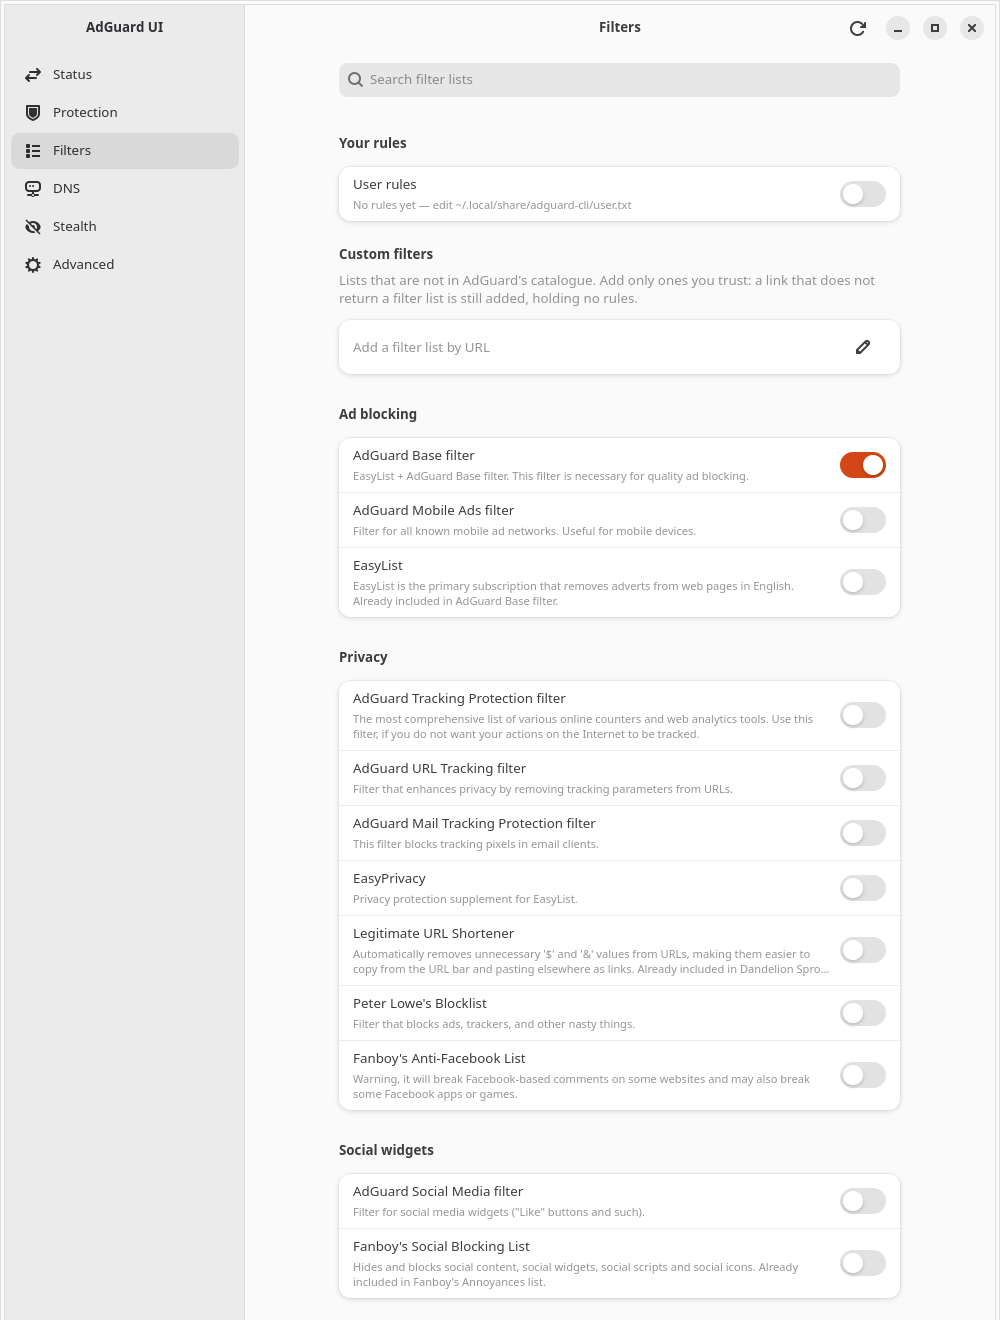
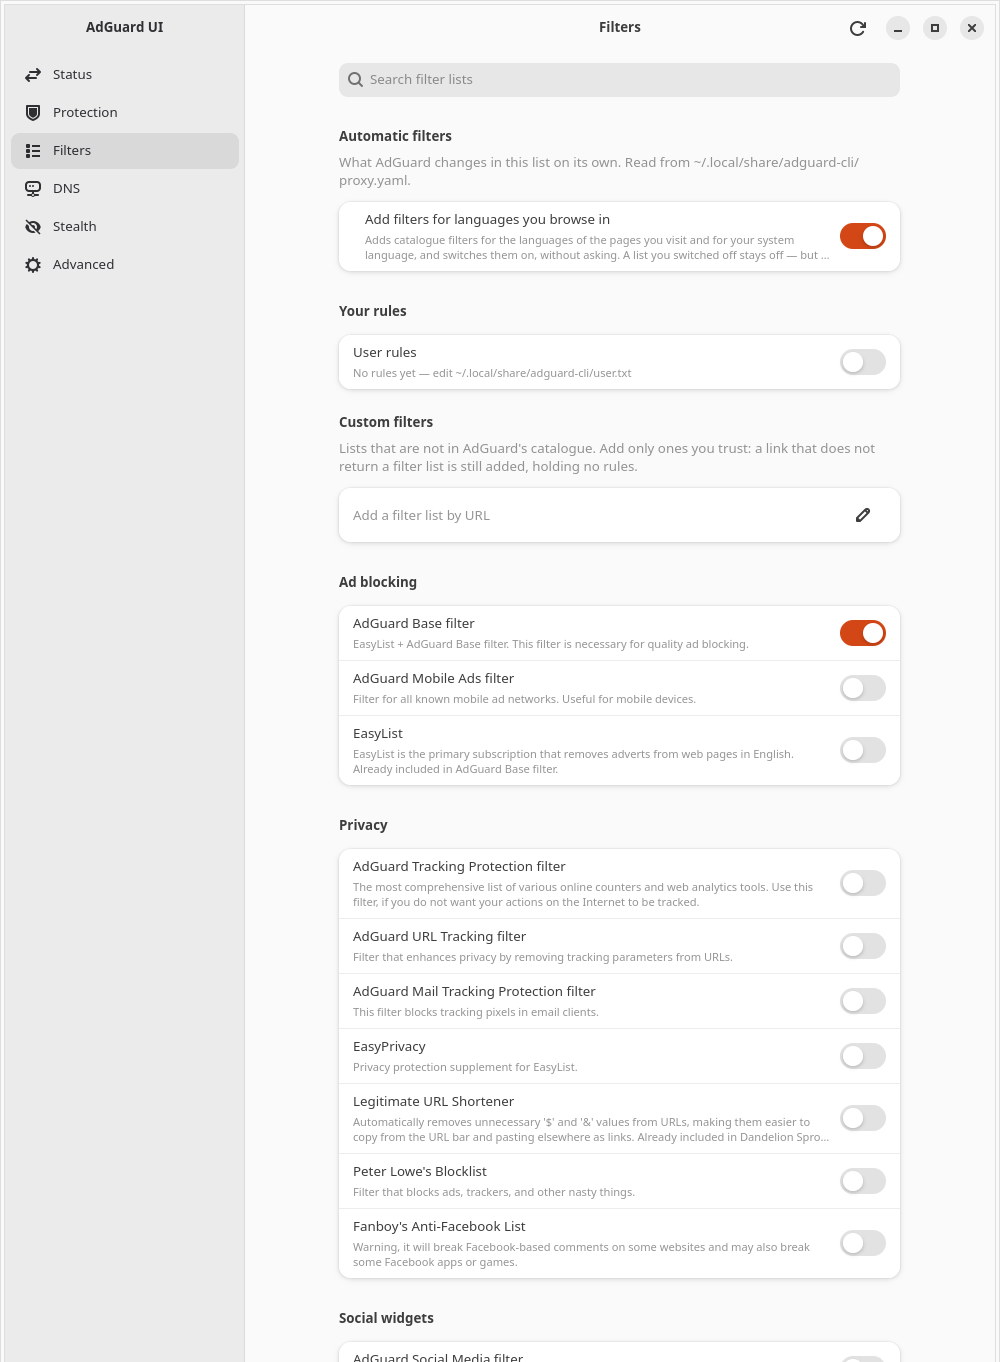
docs: bring README and the screenshots up to 1.1.0; bump to 1.1.0
Steps 1 and 3 of building.md section 5. The tag and the push are not here.

Five of the seven README frames pictured pages that no longer look like
that: Protection gained the Privacy group, Filters the automatic-language
switch, DNS the ECH row, Advanced the HTTPS-filtering and filtered-port
groups. Re-taken by the section 3 recipe. Status and Stealth are left
alone deliberately -- those two carry hand-repainted placeholders over
this machine's licence and IP, and re-taking one that did not need it is
how a real address reaches a public repository.

advanced-backup.png is new. The release's two headline groups sit at the
foot of a 3,000-pixel page, so no top-of-page frame can show them; it is
a crop of a full-height capture, because Atspi.Component.scroll_to fails
here with the same bare atspi_error handoff section 4 records for
grab_focus. Four traps from the re-take are now in building.md section 3,
including the one that matters most: an empty $ADGUARD_BROWSER_HOME
silently removes the browser group the unmet frame exists to show.

README carried a sixth copy of the test count -- "218 tests pass", which
is why the sweep for stale numbers missed it, it having matched neither
"218 pass" nor "228 tests". It is not updated but removed: the count is
the figure that has now been wrong twice, and handoff section 0 is the
one place it belongs. building.md section 5 also claimed metainfo was
the only other file with a version number, which was wrong from the day
[…]

diff --git a/README.md b/README.md
@@ -24,7 +24,7 @@ AdGuard CLI is a third-party install under `$HOME`, so no package can declare a 
 Every release carries a `.deb` and a tarball for `~/.local`, built in a clean `ubuntu:26.04` container and listed with their checksums in `SHA256SUMS`:
 
 ```bash
-sudo apt-get install ./adguard-ui_1.0.0_amd64.deb
+sudo apt-get install ./adguard-ui_1.1.0_amd64.deb
 ```
 
 [**Releases**](https://github.com/dominik-najberg/AdGuard-UI-Linux/releases) · [`CHANGELOG.md`](CHANGELOG.md). `apt-get install ./file.deb` rather than `dpkg -i`, because apt resolves the dependencies the package declares; the path has to start with `./` or apt looks the name up in the archive instead. The tarball is the unprivileged route: extract it and run its `install.sh`, which writes under `~/.local` and never asks for a password.
@@ -65,15 +65,15 @@ While the tray is present, closing the window only hides it and *Quit* in the tr
 
 **Status** — runtime state, start/stop/restart, the proxy endpoints, and the licence. Polled every 2 seconds while the window is up, every 10 when only the tray is showing.
 
-**Protection** — the six protection modules, each one switch over one key in `proxy.yaml`.
+**Protection** — the six protection modules, each one switch over one key in `proxy.yaml`, and the anonymous-statistics consent. That last row is the one setting here the application will not describe: nothing in AdGuard's configuration comments, its help output or its binary says what the key sends, so the row says *that* rather than inventing an answer.
 
 ![The Protection page](docs/screenshots/protection.png)
 
-**Filters** — AdGuard's own catalogue, read from its SQLite databases with localised names, plus custom lists installed by URL. The group description says what AdGuard's own content check does and does not catch: a link that answers with something other than a filter list is still installed, holding no rules.
+**Filters** — AdGuard's own catalogue, read from its SQLite databases with localised names, plus custom lists installed by URL. The group description says what AdGuard's own content check does and does not catch: a link that answers with something other than a filter list is still installed, holding no rules. Above the catalogue is the switch for adding filters in your system languages automatically — on this page rather than in Advanced, because a list you never switched on is something you notice here.
 
 ![The Filters page](docs/screenshots/filters.png)
 
-**DNS** — the DNS filter catalogue, your own DNS rules, the three server settings, and the local DNS proxy's listen port as disabled / automatic / fixed.
+**DNS** — the DNS filter catalogue, your own DNS rules, the three server settings, the local DNS proxy's listen port as disabled / automatic / fixed, and Encrypted Client Hello blocking, which is last because AdGuard's own comment says the common case is to leave it alone.
 
 ![The DNS page](docs/screenshots/dns.png)
 
@@ -81,11 +81,19 @@ While the tray is present, closing the window only hides it and *Quit* in the tr
 
 ![The Stealth page](docs/screenshots/stealth.png)
 
-**Advanced** — proxy mode, ports, listen address and authentication, outbound proxy, worker threads, log level, and secure DNS filtering. Settings whose effect depends on another setting say so rather than appearing to work.
+**Advanced** — proxy mode, ports, the filtered-port list, listen address and authentication, outbound proxy and outbound interface, worker threads, log level, secure DNS filtering, and the five HTTPS-filtering options behind the switch that gates them. Settings whose effect depends on another setting say so rather than appearing to work.
 
 ![The Advanced page](docs/screenshots/advanced.png)
 
-A **first-run assistant** covers the other end: on a machine with no `proxy.yaml` at all it checks the licence, seeds a configuration with one guarded `configure`, asks four questions, and writes the answers before handing over to the pages above.
+Two groups at the foot of that page do more than set a key:
+
+**Traffic capture** writes a HAR file of everything filtered, and it ships off. Its description is the feature: the capture records response bodies, the files are world-readable, and a measured run produced 114 MB in six minutes — one file per run, with nothing pruning them.
+
+**Backup and restore** exports your settings to a zip and restores one, with a third button beside the log level that bundles the logs for a bug report. Each of the three says the thing you would otherwise have to find out: a round trip **loses your DNS filter choices and DNS user rules**, because only `proxy.yaml` is exported; a restore leaves the **licence and the certificate untouched**; and the logs bundle **includes your configuration and not your browsing record**. A chosen zip is identified before anything happens to it, so handing the restore a logs bundle is refused with an explanation rather than accepted and half-applied.
+
+![Traffic capture and Backup and restore, at the foot of the Advanced page](docs/screenshots/advanced-backup.png)
+
+A **first-run assistant** covers the other end: on a machine with no `proxy.yaml` at all it checks the licence, seeds a configuration with one guarded `configure`, asks four questions, and writes the answers before handing over to the pages above. It also offers **restore from a backup**, in every branch including the two that will not set anything up — restoring is not licence-gated where seeding a configuration is, so it is reachable by exactly the user that screen otherwise turns away.
 
 ## Prerequisites it detects, and will not perform for you
 
@@ -97,7 +105,7 @@ Each is detected, named, and paired with **AdGuard's own command** and a copy bu
 
 The browser check is the one whose answer something unrelated to AdGuard can invalidate: install a browser after the integration command last ran and it is silently left out, with the extension reporting that it cannot find AdGuard at all. All three re-read themselves when the window regains focus.
 
-> Every check above is in its *met* state on the machine these screenshots came from, so the unmet frame was produced with the documented `$ADGUARD_CA_BUNDLE`, `$SYSTEM_CERT_DIR` and `$ADGUARD_BROWSER_HOME` overrides ([`docs/building.md`](docs/building.md) §3), pointing the checks at an empty sandbox rather than at this machine's real trust store. The licence owner, the visible tail of the licence key and the Stealth page's custom IP are placeholders; everything else is as rendered.
+> Every check above is in its *met* state on the machine these screenshots came from, so the unmet frame was produced with the documented `$ADGUARD_CA_BUNDLE`, `$SYSTEM_CERT_DIR` and `$ADGUARD_BROWSER_HOME` overrides ([`docs/building.md`](docs/building.md) §3), pointing the checks at an empty sandbox rather than at this machine's real trust store. The licence owner, the visible tail of the licence key and the Stealth page's custom IP are placeholders; everything else is as rendered. Frames of a page longer than the window show it from the top, so a page here is not always all of it — the *Advanced* frame above stops partway down, which is why the two groups at the foot of that page have a frame of their own.
 
 ---
 
@@ -124,7 +132,9 @@ The browser check is the one whose answer something unrelated to AdGuard can inv
 cargo test --workspace
 ```
 
-218 tests pass and 44 are `#[ignore]`d. The ignored suites drive the real `adguard-cli`: two write only to a throwaway `$XDG_DATA_HOME`, and two mutate this machine's real configuration and restore it afterwards. [`docs/building.md`](docs/building.md) §3 says which is which before you run one.
+That runs everything that touches nothing of yours. The suites it leaves `#[ignore]`d drive the real `adguard-cli`: two write only to a throwaway `$XDG_DATA_HOME`, and two mutate this machine's real configuration and restore it afterwards. [`docs/building.md`](docs/building.md) §3 says which is which before you run one.
+
+No count is quoted here on purpose. It was wrong twice — a figure that changes belongs in exactly one place, and for this project that place is [`docs/handoff.md`](docs/handoff.md) §0.
 
 CI runs the first of those commands on every push and pull request, in an `ubuntu:26.04` container — the runner's own image ships a libadwaita too old to build against. It runs no formatter check and never the ignored suites; [`.github/workflows/ci.yml`](.github/workflows/ci.yml) says why for each.
 

diff --git a/docs/building.md b/docs/building.md
@@ -334,6 +334,15 @@ Resize once after the window maps, re-read the geometry from `xwininfo` afterwar
 
 The unmet certificate, root-helper and browser-integration groups are invisible on this machine, so a screenshot of them needs the overrides above — but check what the *command* row ends up saying before shipping the frame. Pointing `$ADGUARD_ROOT_HELPER` at `/bin/true` renders `sudo /bin/true -s`, which is a real rendering of a fake install and reads as a real instruction.
 
+**An empty `$ADGUARD_BROWSER_HOME` deletes the group you came to photograph.** Measured 2 August 2026 while re-taking the unmet frame for 1.1.0: pointing it at a bare empty directory produces a frame with no browser-integration group at all, because no browser is *installed* under it and this application does not report browsers that are not there (`architecture.md` §6). The frame that group appears in needs `.config/google-chrome` and `.config/chromium` to **exist and be empty** — installed, no manifest. `/tmp/adguard-demo/` is the root the committed frame uses, and it is worth reusing: the path is rendered into the picture, so a scratch directory with a session id in its name ends up on a public README.
+
+**Four more things measured while re-taking the 1.1.0 set**, each of which reads as a bug in the app rather than in the harness:
+
+- **A page longer than the window is the normal case now, not the exception.** The DNS and Filters pages carry their whole catalogues — about 5,000 and well over 5,200 pixels on this machine — so "resize the window to the page and crop" produces a strip nobody will look at. The committed frames are the *top* of each page at a 1,400 px window, which is what the 1.0.0 set already did; `README.md` says so beneath them rather than leaving a reader to think a page is all of it.
+- **The bottom rows of the frame are window chrome, not page content.** With no window manager, GTK leaves two 1 px lines at the very bottom edge. A crop that scans up from the last row for "the last row that is not background" finds one of them and reports *every* page as exactly full height — which looks like a page that overflows and is nothing of the kind. Start the scan about ten rows up.
+- **`Atspi.Component.scroll_to` fails here** with the same bare `atspi_error` that `handoff.md` §4 records for `grab_focus`. That is the obvious way to frame a group below the fold and it does not work. It does not need to: with no window manager the window can be made as tall as the whole page, which turns a scrolled viewport into a *crop* — take one tall frame, read the group's `y` off `Atspi.Component.get_extents`, and cut. `docs/screenshots/advanced-backup.png` was made that way.
+- **Cut the crop on a background row, not at a fixed offset.** Both edges: a fixed offset above a group heading slices the previous group's last row in half, and a frame that ends mid-row reads as a rendering fault rather than as a page continuing. Walking to the nearest all-background row costs four lines and is the difference between a frame that looks deliberate and one that looks broken.
+
 ### Selecting a sidebar page over AT-SPI
 
 Walking a page headlessly means getting to it first, and **the sidebar row cannot be pressed**. Measured 2 August 2026 while verifying the Advanced page's new *HTTPS filtering* group:
@@ -537,7 +546,9 @@ git log --oneline -1
 
 1. **Bump the version in `Cargo.toml`** — `workspace.package.version`, which every crate inherits and both packaging scripts read, so it is the only place the number is written. `cargo update --workspace` then moves it into `Cargo.lock`, which is committed; a build with `--locked` fails against a stale one, and every step of the workflow uses `--locked`.
 2. **Write the `CHANGELOG.md` section**, headed `## <version> — <date>`. The workflow extracts that section verbatim as the release notes, matching on `## <version> ` with the trailing space, so the heading's shape is load-bearing. A version with no section is not an error — the workflow says so in its log and falls back to GitHub's generated commit list.
-3. **Add the release to `data/…metainfo.xml`**, which is what GNOME Software renders. It is the only other file carrying a version number, and it carries a description as well.
+3. **Add the release to `data/…metainfo.xml`**, which is what GNOME Software renders, and **bump the `.deb` filename in `README.md`'s install example**. Those are the two other files carrying a version number — this step used to say metainfo was the only one, which was wrong from the day the README was written and stayed wrong through 1.0.0. The metainfo entry carries a description as well; the README's is a filename a reader will copy, so a stale one sends them to `apt` with a package that is not in the release.
+
+   **Screenshots are part of this step when the pages moved.** `docs/screenshots/` is seven frames and `README.md` embeds all seven; a release that adds settings to a page ships a README picturing the page without them. The recipe is §3 above, and the frames to re-take are the pages that changed, not all seven — the Status and Stealth frames carry hand-repainted placeholders over this machine's own licence and IP, so re-taking one that did not need it is how a real address reaches a public repository.
 4. **Then tag and push**, both, because a tag that never leaves the machine releases nothing:
 
    ```bash

diff --git a/docs/handoff.md b/docs/handoff.md
@@ -331,7 +331,9 @@ Two of these overturned a recommendation in `overnight-plan.md` §5, both becaus
 
     **So `XDG_DATA_HOME` sandboxes the configuration and not the daemon**, which is a singleton on the machine — and the `AGLocalApiServer` in that teardown is a shared local endpoint the sandbox cannot possibly redirect. That is the shape of a mechanism, **not** a measured one, and it is written here as a lead rather than an answer.
 
-    **What it costs right now:** every headless GUI run takes the owner's proxy down. Recovery is `adguard-cli start`, verified working — HTTP and HTTPS both 200 through `127.0.0.1:3129`, root helper alive, `proxy.yaml`'s hash unmoved — and the systemd unit will not do it for you (§4, and item 9's note that it is `active (exited)` with `MainPID 0`).
+    **A counter-observation, 2 August 2026, and it narrows this.** Six headless GUI launches during the 1.1.0 screenshot capture **did not stop the proxy**: PID 1928305 was the running daemon before the first launch and the same PID after the sixth, and `adguard-cli start` answered *It is already running*. The difference from the three runs above is the one thing the lead already suspected: those ran under a throwaway `XDG_DATA_HOME` and these ran against the **real** data directory. So the trigger is not "launching the GUI" as flatly as the heading says — it is something about launching it *sandboxed*, which is consistent with a daemon that is a singleton the sandbox cannot redirect, and it moves the bisection's first experiment from the poll and the monitor to the sandbox itself. **Six is not proof of the negative**, and the heading is left as it was because three-for-three was measured just as carefully as six-for-six.
+
+    **What it costs right now:** a sandboxed headless GUI run takes the owner's proxy down; an unsandboxed one did not, six times. Recovery is `adguard-cli start`, verified working — HTTP and HTTPS both 200 through `127.0.0.1:3129`, root helper alive, `proxy.yaml`'s hash unmoved — and the systemd unit will not do it for you (§4, and item 9's note that it is `active (exited)` with `MainPID 0`).
 
     **What would settle it needs the owner**, because every candidate experiment stops a working proxy on purpose: launch the GUI with the Status page's poll disabled, then with the config monitor disabled, and see which start leaves the daemon up. One bisection, three or four deliberate outages. That is a machine-wide change on a machine in `auto` mode, which is the §6 line — so it is here rather than done.
 

diff --git a/CHANGELOG.md b/CHANGELOG.md
@@ -95,14 +95,15 @@ for each of the nine that are not.
 - **The activation success leg is still unmeasured**, unchanged from 1.0.0 and
   for the same reason: watching it needs a real account and spends a device slot
   ([`docs/handoff.md`](docs/handoff.md) §3 item 6).
-- **Launching the GUI can stop a running proxy.** Measured on 2 August 2026 from
-  the daemon's own log rather than inferred — three clean shutdowns, each within
-  about a second of a GUI start, under the headless test harness. Whether an
-  ordinary desktop launch does the same is not established, and neither is which
-  part of the GUI causes it; recovery is `adguard-cli start`. This predates the
-  release: it is the cause of outages two earlier sessions recorded as
-  unexplained, and what is new is the measurement, not the behaviour
-  ([`docs/handoff.md`](docs/handoff.md) §3 item 11).
+- **A headless GUI run under a sandboxed data directory can stop a running
+  proxy.** Measured on 2 August 2026 from the daemon's own log rather than
+  inferred — three clean shutdowns, each within about a second of such a start.
+  Six launches against the real data directory did not reproduce it, so this
+  looks like a property of the test sandbox rather than of ordinary use, but
+  which part of the GUI does it is still not established; recovery is
+  `adguard-cli start`. This predates the release: it is the cause of outages two
+  earlier sessions recorded as unexplained, and what is new is the measurement,
+  not the behaviour ([`docs/handoff.md`](docs/handoff.md) §3 item 11).
 - **Userscripts, live blocked-request stats and the `speed` benchmark remain out
   of scope**, each for a recorded reason (`docs/architecture.md` §7). HAR capture
   and import/export were on that list at 1.0.0 and have come off it.
